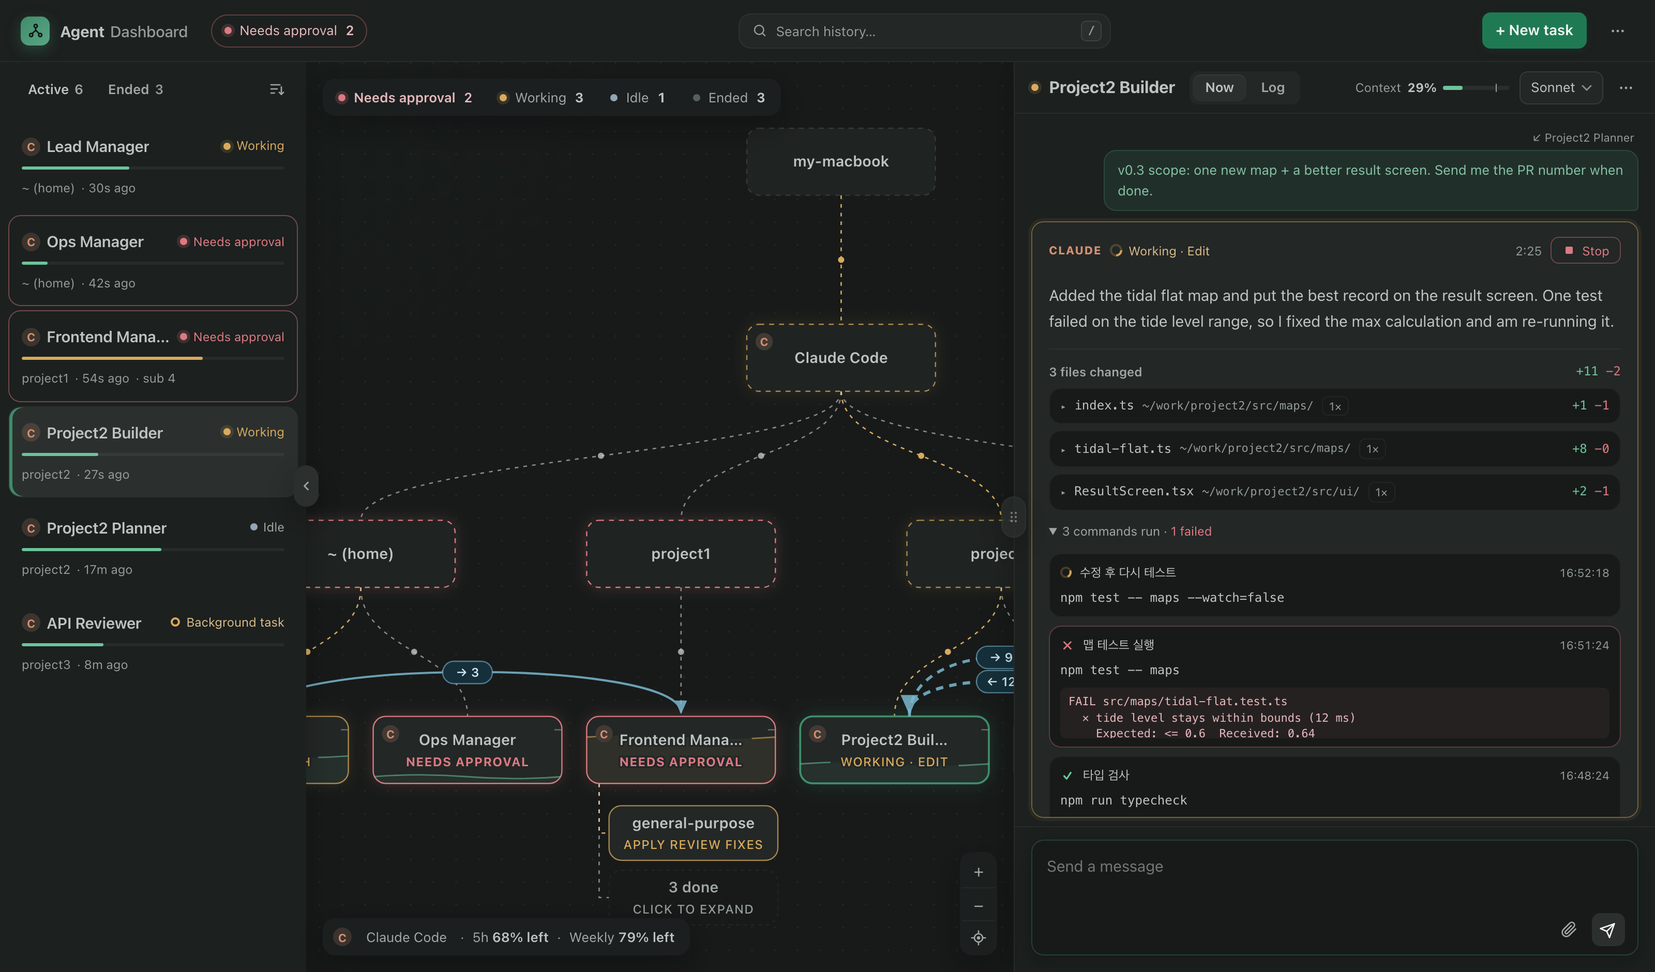
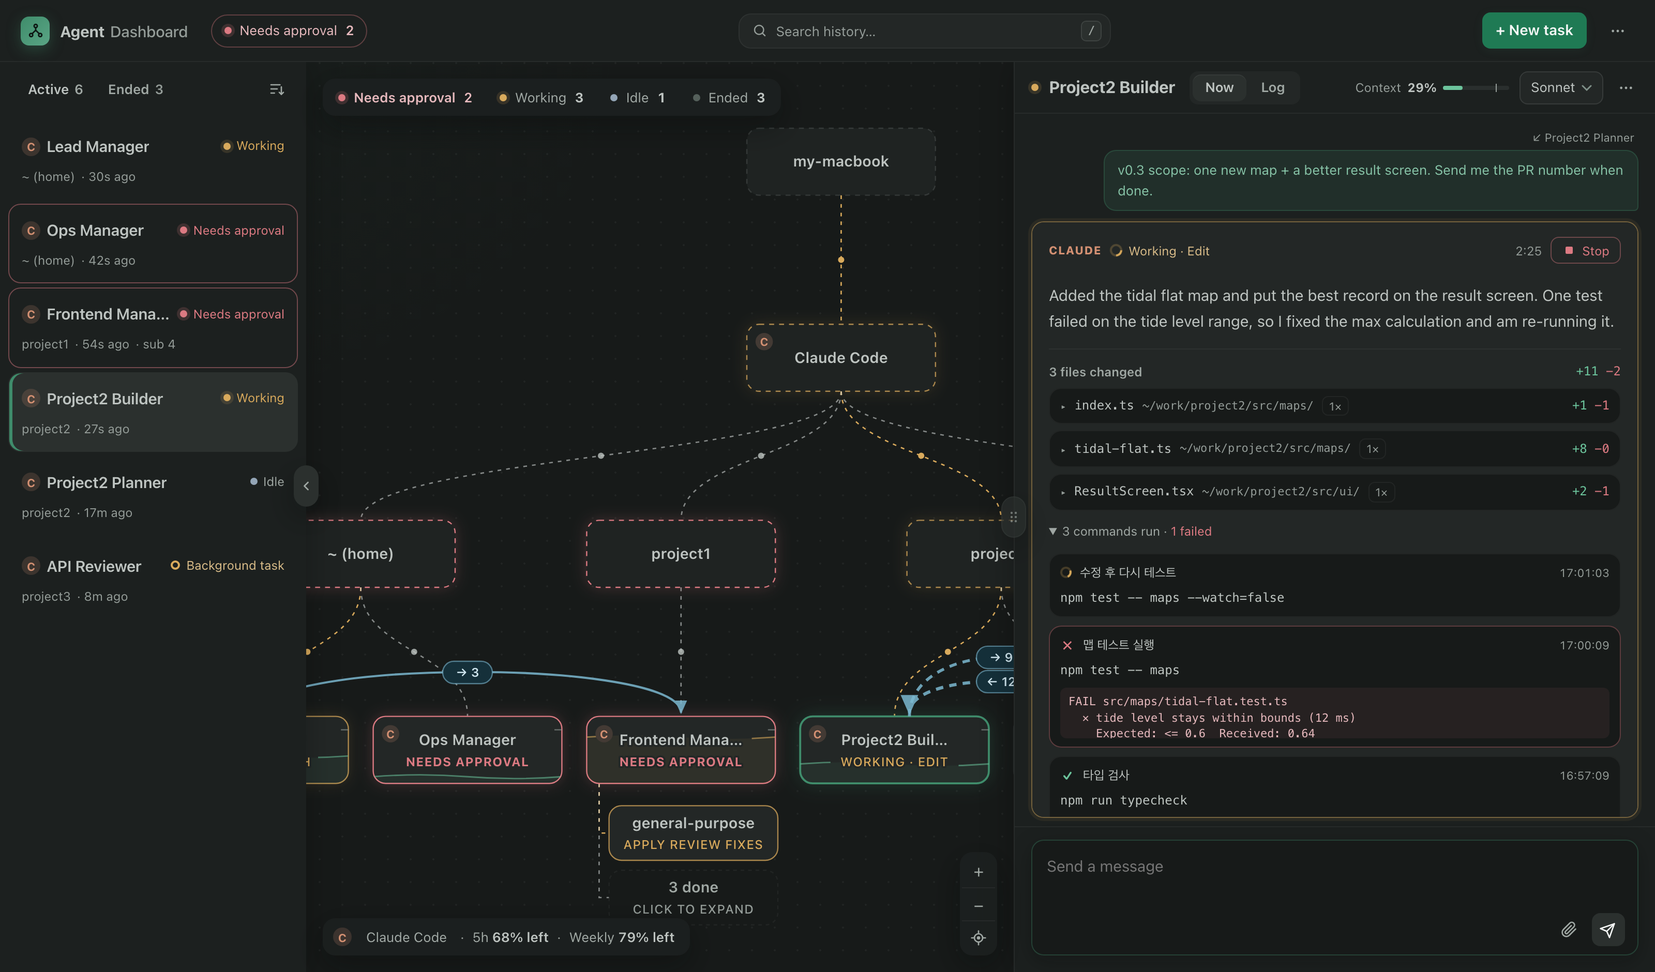
목록 카드의 대화 창 막대 없애기 · 낡은 css 머리 주석 셋 고치기
사용자 결정: 카드는 이름 · 상태 · 흐린 한 줄만, 대화 창은 조직도 물 채우기와 패널 머리 % 가 맡는다.
같이 쓰던 .ctx-bar 는 00-base 로, .ctx-chip 은 04-drawer 로 옮기고 안 쓰는 사전 두 줄을 지웠다. README 글 · 그림도 맞춤.
확인: npm test 458 통과(되돌리면 새 테스트 실패), 데모 1440 · 390 × 두 판 막대 0 · 가로 넘침 0 · 콘솔 0.

Changed region(s): [[0.0, 0.1543, 0.1875, 0.6787], [0.125, 0.617, 0.1562, 0.6479]]

diff --git a/public/js/04-list.js b/public/js/04-list.js
@@ -1,4 +1,5 @@
 // 왼쪽 세션 목록
+// 카드는 이름 · 상태 · 흐린 한 줄(폴더 · 시간)만 — 대화 창은 조직도 물 채우기(전체 비교)와 패널 머리 %(정확한 숫자)가 맡는다.
 // 꼬리표는 기본값이 아닐 때만: tmux 밖(보기만 되는) 세션에만 「보기만」. 에이전트 종류는 이름 앞 표식(02-kinds.js 의 kmark)
 const tags = (s) => (s.tmux ? '' : `<span class="badge badge-view" title="${t('Started outside tmux — chat · approve are off')}">${t('View only')}</span>`);
 // 탭: 활성 = 지금 떠 있는 세션(정렬 · 끌기) / 종료 = 최근 24시간에 끝난 세션(서버가 24시간만 보낸다) · 다시 열기.
@@ -29,7 +30,6 @@ function renderList() {
         <span class="ini"><span class="dot-s ${esc(s.status)} ${['working', 'waiting', 'background'].includes(s.status) ? 'pulse' : ''}"></span>${esc(initials(s.title))}</span>
         <div class="row"><div class="title">${kmark(s.tool)}${esc(s.title)}</div><span class="status ${esc(s.status)}"><span class="dot-s ${esc(s.status)} ${['working', 'waiting', 'background'].includes(s.status) ? 'pulse' : ''}"></span>${STATUS_KO[s.status]}</span></div>
         <button class="x" data-close="${esc(s.key)}" title="${s.status === 'ended' ? t('Hide from list') : t('End session')}" aria-label="${esc(s.title)} ${s.status === 'ended' ? t('Hide from list') : t('End session')}">✕</button>
-        ${s.context && s.status !== 'ended' ? `<div class="ctx" title="${t('Context window')} ${fmtTok(s.context.used)} / ${fmtTok(s.context.window)}${s.context.estimated ? ` (${t('window size estimated')})` : ''}"><div class="ctx-bar ${ctxLevel(s.context.percent)}" style="width:${s.context.percent}%"></div></div>` : ''}
         <div class="sub">${tags(s)}<span class="proj">${esc(s.project)}</span><span class="ago" data-key="${esc(s.key)}"></span>${s.subagents?.length ? `<span class="ago">· ${t('sub {n}', { n: s.subagents.length })}</span>` : ''}</div>
         ${s.reopen ? `<div class="re"><button type="button" class="reopen" data-reopen="${esc(s.id)}" aria-label="${esc(s.title)} ${t('Reopen')}">${t('Reopen')}</button></div>` : ''}
       </div>`;

diff --git a/public/css/02-list.css b/public/css/02-list.css
@@ -69,12 +69,6 @@ kbd { font: 11px var(--mono); padding: 0 5px; border: 1px solid var(--border-str
 .card .sub { display: flex; align-items: center; gap: 6px; margin-top: var(--sp-2); color: var(--faint); font-size: 12px; white-space: nowrap; overflow: hidden; }
 .card .sub .proj { min-width: 2em; overflow: hidden; text-overflow: ellipsis; }
 .card .sub .ago { flex: none; }
-.ctx { height: 3px; margin-top: 8px; border-radius: 3px; background: color-mix(in srgb, var(--ink) 6%, transparent); overflow: hidden; }
-.ctx-bar { height: 100%; border-radius: 3px; background: var(--ok); }
-.ctx-bar.mid { background: var(--working); }
-.ctx-bar.high { background: var(--waiting); }
-.ctx-chip { display: inline-flex; align-items: center; gap: 6px; }
-.ctx-chip .mini { width: 46px; height: 4px; border-radius: 3px; background: color-mix(in srgb, var(--ink) 8%, transparent); overflow: hidden; }
 .card .x { position: absolute; right: 8px; bottom: 8px; width: 24px; height: 24px; padding: 0; border-radius: 8px; font-size: 11px; line-height: 22px; color: var(--faint); background: var(--surface-3); border: 1px solid var(--border); opacity: 0; }
 .card:hover .x, .card:focus-within .x { opacity: 1; } /* 키보드로 카드 · ✕ 에 닿으면 보이게 */
 .card:focus-visible, .card .x:focus-visible { outline: 2px solid var(--accent); outline-offset: 2px; }

diff --git a/public/css/00-base.css b/public/css/00-base.css
@@ -149,6 +149,9 @@ input, textarea { font: inherit; color: var(--text); }
 .switch { display: inline-flex; align-items: center; gap: 8px; color: var(--dim); cursor: pointer; user-select: none; font-size: 12px; }
 .switch input { display: none; }
 button.switch { background: transparent; border-color: transparent; } /* 단추로 된 스위치(role=switch · aria-checked) — 사용 한도 보기 */
+.ctx-bar { height: 100%; border-radius: 3px; background: var(--ok); } /* 채움 막대(패널 머리 대화 창 · 세션 정보 · 한도 팝업) — 60 · 85% 에서 색만 */
+.ctx-bar.mid { background: var(--working); }
+.ctx-bar.high { background: var(--waiting); }
 .switch .track { flex: none; width: 30px; height: 18px; border-radius: 12px; background: var(--switch-off); position: relative; transition: background .15s; }
 .switch .track::after { content: ''; position: absolute; top: 2px; left: 2px; width: 14px; height: 14px; border-radius: 50%; background: var(--switch-knob); box-shadow: var(--switch-knob-shadow); transition: transform .15s; }
 .switch input:checked + .track, .switch[aria-checked="true"] .track { background: var(--switch-on); }

diff --git a/public/css/04-drawer.css b/public/css/04-drawer.css
@@ -168,3 +168,5 @@
 #busy-time { margin-left: auto; color: var(--faint); font-size: 12px; }
 .spinner { width: 14px; height: 14px; border-radius: 50%; border: 2px solid color-mix(in srgb, var(--working) 25%, transparent); border-top-color: var(--working); animation: spin .8s linear infinite; flex: none; } /* 진행 표시라 돈다 — 끝없는 애니메이션은 이 로딩 고리만(test/a11y.test.mjs 허용 목록) */
 @keyframes spin { to { transform: rotate(360deg); } }
+.ctx-chip { display: inline-flex; align-items: center; gap: 6px; } /* ⓘ 세션 정보의 대화 창 한 줄 */
+.ctx-chip .mini { width: 46px; height: 4px; border-radius: 3px; background: color-mix(in srgb, var(--ink) 8%, transparent); overflow: hidden; }

diff --git a/public/css/03-graph.css b/public/css/03-graph.css
@@ -1,4 +1,4 @@
-/* 가운데 조직도: 노드 · 선 · 흐르는 점선 · 세션 사이 화살표 — 프로젝트 박스를 누르면 뜨는 폴더 열기 메뉴도 여기 */
+/* 가운데 조직도: 바탕(점 격자 · 오로라 · 마우스 둘레 점) · 노드 · 선 · 물 채우기 · 세션 사이 화살표 · 메시지 점 — 프로젝트 박스를 누르면 뜨는 폴더 열기 메뉴도 여기 */
 /* ---------- 가운데 조직도 ---------- */
 /* 바탕 층: 멈춘 점 격자 + 가장자리 오로라(--aurora-*). 노드 · 선 · 글자 밑이라 글자 대비는 그대로(노드는 제 바탕을 칠한다) */
 main { position: relative; overflow: hidden; background:

diff --git a/public/css/01-header.css b/public/css/01-header.css
@@ -1,4 +1,4 @@
-/* 머리: 로고 · 통계 · 사용 한도 표시 · 단추 — 머리 단추가 여는 팝업(한도 추이 · 알림 설정)도 여기 */
+/* 머리: 로고 · 승인 필요 칩 · 검색 · 단추 — 머리 단추가 여는 팝업(알림 설정)과 범례 위로 열리는 사용 한도 팝업(#limits-pop)도 여기 */
 /* ---------- 헤더 ---------- */
 header { grid-column: 1 / -1; position: relative; z-index: var(--z-head); display: flex; align-items: center; gap: 14px; padding: 0 20px; border-bottom: 1px solid var(--border); background: var(--surface); }
 .brand { display: flex; align-items: center; gap: 10px; margin-right: 8px; }

diff --git a/public/css/11-center.css b/public/css/11-center.css
@@ -1,5 +1,5 @@
 /* 가운데 칸: 조직도 · 상태 칩 · 범례 · 확대 단추(07-center.js · 13-controls.js) — 좁은 창도 같은 배치 */
-/* 바탕은 장식 없이 한 가지 면(점 · 격자 · 번짐은 눈에 걸려서 뺐다). 머리 · 목록은 한 단계 밝은 면 */
+/* 조직도 바탕(점 격자 · 멈춘 오로라 · 마우스 둘레 점)은 03-graph.css. 머리 · 목록은 한 단계 밝은 면 */
 header, aside { background: var(--surface); }
 main { --dw: 0px; } /* 오른쪽 패널 폭(07-center.js 가 채움) — 확대 단추 · 폭 손잡이가 쓴다 */
 /* 보조 단추는 테두리만 */

diff --git a/public/js/00-dict-ui.js b/public/js/00-dict-ui.js
@@ -23,8 +23,6 @@ const KO_UI = {
   "End session": "세션 종료",
   "sub {n}": "서브 {n}",
   "Reopen": "다시 열기",
-  "Context window": "대화 창 사용량",
-  "window size estimated": "창 크기 추정",
   "No Claude Code session logs yet — run claude once in a terminal and it shows up here": "아직 Claude Code 세션 기록이 없어요 — 터미널에서 claude 를 한 번 실행하면 여기에 보여요",
   "No sessions running": "떠 있는 세션이 없어요",
   "Outside session folder": "세션 폴더 밖",

diff --git a/docs/ROADMAP.md b/docs/ROADMAP.md
@@ -83,7 +83,7 @@
 - [x] 8바퀴 대화 창 띠 · 손잡이 — 입력 칸 안내 줄을 placeholder 한 문장으로 `fc669a3` · 패널 폭 손잡이를 테두리선 위 둥근 탭(⋮⋮, 패널 밖 형제 · --dw) `a3b1061` · 가운데 바탕 그래프 · 큰 % · 좁은 화면 작은 그래프를 패널 머리 아래 56px 띠 하나로(60/85 색 · 마우스 · 초점 ← → 로 시각 · % · 토큰 · 마지막 자동 요약, Codex 숨김) · 휠은 조직도 옮기기(ctrl · 오므리기만 확대 — 트랙패드 스크롤로 0.59배까지 줄던 문제) `0ae0c5c`
 - [x] 8바퀴 휠 · 성능 — 휠 · 두 손가락 스크롤 = 마우스 기준 확대(delta 비례 · 하한 0.75) `cec0ebe` · 켜진 시각 한 번만(P1) `349e9d5` · 변경 본문은 고른 세션만 /api/changes(P2) `b2a4a33` · SSE 는 바뀐 세션만 patch(P3) `43ecd86` · 기록 탭 content-visibility(P8) `421d2a6` — 실제 서버 분당 985KB → 45KB
 - [ ] 8바퀴 간추리기 B1~B8 — B1 종료된 세션 기간 고르기 삭제(24시간 고정 · /api/window 없앰) `225e21f` · B2 이름순 정렬 삭제(저장된 name → 상태별) `4621100` · B3 음성 입력 삭제(단추 · 안내 창 · micNoticeOk) `08703d5` · B4 알림은 한 길로(macOS 면 macOS 알림만 · 그 밖은 브라우저 알림 자동, 설정의 브라우저 선택지 숨김) `aff8fd1` · B5 오늘 한 일 토큰은 합계 · 캐시 제외(다섯 갈래는 마우스 올림) `783ff53` · B6 서브에이전트는 진행 중 + 「완료 N개」(10분 · 5개 규칙 없앰) `ed8d290` · B7 사용 한도 켜기 설명 6줄 → 3줄 `3c80ada` · B8 패널 ⋯ 「넓게 보기」 삭제(손잡이로만)
-- [ ] 8바퀴 간추리기 2 — 대화 창 추이 띠(56px · /api/trend) 삭제 → 패널 머리 「대화 창 N%」 + 막대(80% 눈금), 마우스 올림 = % · 토큰 · 마지막 자동 요약(기록 응답의 compactAt) `152e542` · 요청 말풍선 하나(「나」 / 「↙ 세션」 이름표만 다름, 4줄 + 더 보기) · 대화 창을 머리 첫 줄로(좁으면 글자 → 막대 32px · 모델 여백 → 이름 → % 순, 막대는 끝까지) · 「+ 에이전트」 → 「+ 새 작업」 `e84df89` · 답변 코드 블록 복사 단추(위임 하나 · 원문만 · 1.5초 ✓) `8906538` · 한도 추이 삭제(그래프 · 24h/7d · 범례 줄 · /api/limits · 기록) → 팝업은 창마다 남은 양 · 초기화 시각 + 막대, 범례 「5시간 68% 남음 · 주간 79% 남음」 `a3ab99b` · 목록 「활성 N」 · 「종료 N」 탭(종료 = 최근 24시간 + 다시 열기, 고른 탭 agent-deck 의 listTab, j/k 는 보이는 탭 안, 접힌 띠는 활성만 · 종료 접기 줄 · showEnded 삭제) `abc734f` · 패널 머리 % 늘 보임(이름 2em · 탭 여백이 먼저) `74e4cbf` · 조직도 세션 노드 물 채우기(대화 창 %, 물 6~7% + 물낯 선 · 글자 둘레 바탕색, 80% 눈금, 바뀔 때만 0.5초, 글자 대비 ≥4.5) · 이름 가운데 `608ab0c` · 사용 한도 켜고 끄기를 스위치로(팝업 아래 · 꺼지면 범례에 꺼진 스위치, 처음 켤 때만 동의 줄 + [연결] · agent-deck 의 usageLinked, 끄기는 바로 usage-off, 설정 창 usage-dlg · 「설정…」 삭제) `5fc272e` · 입력 칸의 한 줄 슬래시 명령(/compact 등)은 붙여넣기 대신 send-keys -l 로(Claude Code 가 붙여 넣은 글은 명령으로 안 봄, /exit · /model 도 같은 길, 첨부가 붙으면 붙여넣기 그대로) · 환경 점검 꺼짐 문구 「Claude Code 범례의 「사용 한도 보기」」 `9640124` · 판 배치(조직도 = 머리 아래 전체 바탕, 목록 · 패널은 뜬 판(--aw · --shadow-panel · --slide 0.22초), 판 열고 닫기 · 폭 · 접기에 배율 · 위치 그대로, 가려진 고른 노드만 배율 그대로 보이는 칸으로, 맞춤은 두 판 사이 기준, 왼쪽 위 + − 묶음 + ⌖ 제자리로 · 키 + - 0, 「맞춤」 단추 삭제) `20ede35` · 실행기 테스트 흔들림(가짜 서버가 SIGTERM 처리 전에 pid 를 적어 기본 동작으로 죽음 → 처리 뒤 이름 바꾸기로 적기 · signal 을 until 로) `90e5de0` · 보이는 칸 480px 이하면 범례 「C 68% · 79%」(전체는 title) · 상태 칸 점 + 숫자, 그래도 겹치면 범례를 상태 칸 위로(main.tight · .kinds.stack) · 스위치 손잡이 흰색 + 옅은 그림자(--switch-knob · --switch-on/off, 대비 5.3 · 3.4) `7380228` · 조직도 바탕 층(눈 피로 우선: 가장자리 오로라 --aurora-1/2 5% · 가장 밝은 곳 L* +2.8 · 멈춤, 점 격자 그대로, 마우스 둘레 180px 점만 +0.15 — rAF 한 번에 .spot 의 --mx/--my, 멈춘 지 2초 · 0.5초 사라짐, 목록 · 패널 · 터치 · 동작 줄이기면 없음, 마우스 멈춘 30초 rAF 0) `e927f8e` · 조직도 위 세 무리를 지도 앱 배치로(왼쪽 위 상태 칩 가로 한 줄 · 승인 필요 0 흐림/1 이상 경고색, 왼쪽 아래 범례 + 한도 · 팝업은 그 위로, 오른쪽 아래 + − ⌖ 한 덩어리 · --dw 따라감, 같은 높이 · 모서리 · 반투명 면 --float-bg, 모자라면 범례 → 상태 칩 순으로 .short · 숨기지 않음, 860 이하도 같은 규칙 · #usage-line · main.tight · .stack 삭제, 1440 · 1180 · 860 · 390 × 판 열고 닫기 · 접기 × 두 테마 · 두 언어 겹침 0 · 넘침 0 · 콘솔 0) `f1e4e63` · 물낯 선이 노드 이름 · 상태 글자를 긋지 않게 글자 자리에서 끊기(evenodd 구멍, 폭은 글자 수 어림 · 한글 넓게, 물 면은 그대로 — halo 만으론 10px 글자 사이로 비쳤다) `927cda4` · 메시지 점(세션 사이 메시지 수가 늘면 · 새 화살표 포함 그 화살표를 따라 빛나는 점이 한 번 1초, 25점 키프레임 transform · opacity 만, 한 번에 셋까지, 처음 그릴 때 · 동작 줄이기면 없음, 숫자 꼬리표 아래로) `bb4f191` · 노드 등장 · 퇴장(새 세션 0.25초 0.92 → 1배 · blur 2px → 0 + 그 줄기 나타남, 빠진 노드는 맨 아래 층에서 0.3초 흐려짐 · 누를 수 없음, 처음 그릴 때 · 한 번에 넷 이상(탭 바꾸기) · 동작 줄이기면 없음, 다른 노드 자리 그대로) `17983e8` · README 그림 · GIF 다시(두 언어 · 새 배치 · 바탕 · 물 채우기 · 메시지 점, 전체는 패널 닫힘)
+- [ ] 8바퀴 간추리기 2 — 대화 창 추이 띠(56px · /api/trend) 삭제 → 패널 머리 「대화 창 N%」 + 막대(80% 눈금), 마우스 올림 = % · 토큰 · 마지막 자동 요약(기록 응답의 compactAt) `152e542` · 요청 말풍선 하나(「나」 / 「↙ 세션」 이름표만 다름, 4줄 + 더 보기) · 대화 창을 머리 첫 줄로(좁으면 글자 → 막대 32px · 모델 여백 → 이름 → % 순, 막대는 끝까지) · 「+ 에이전트」 → 「+ 새 작업」 `e84df89` · 답변 코드 블록 복사 단추(위임 하나 · 원문만 · 1.5초 ✓) `8906538` · 한도 추이 삭제(그래프 · 24h/7d · 범례 줄 · /api/limits · 기록) → 팝업은 창마다 남은 양 · 초기화 시각 + 막대, 범례 「5시간 68% 남음 · 주간 79% 남음」 `a3ab99b` · 목록 「활성 N」 · 「종료 N」 탭(종료 = 최근 24시간 + 다시 열기, 고른 탭 agent-deck 의 listTab, j/k 는 보이는 탭 안, 접힌 띠는 활성만 · 종료 접기 줄 · showEnded 삭제) `abc734f` · 패널 머리 % 늘 보임(이름 2em · 탭 여백이 먼저) `74e4cbf` · 조직도 세션 노드 물 채우기(대화 창 %, 물 6~7% + 물낯 선 · 글자 둘레 바탕색, 80% 눈금, 바뀔 때만 0.5초, 글자 대비 ≥4.5) · 이름 가운데 `608ab0c` · 사용 한도 켜고 끄기를 스위치로(팝업 아래 · 꺼지면 범례에 꺼진 스위치, 처음 켤 때만 동의 줄 + [연결] · agent-deck 의 usageLinked, 끄기는 바로 usage-off, 설정 창 usage-dlg · 「설정…」 삭제) `5fc272e` · 입력 칸의 한 줄 슬래시 명령(/compact 등)은 붙여넣기 대신 send-keys -l 로(Claude Code 가 붙여 넣은 글은 명령으로 안 봄, /exit · /model 도 같은 길, 첨부가 붙으면 붙여넣기 그대로) · 환경 점검 꺼짐 문구 「Claude Code 범례의 「사용 한도 보기」」 `9640124` · 판 배치(조직도 = 머리 아래 전체 바탕, 목록 · 패널은 뜬 판(--aw · --shadow-panel · --slide 0.22초), 판 열고 닫기 · 폭 · 접기에 배율 · 위치 그대로, 가려진 고른 노드만 배율 그대로 보이는 칸으로, 맞춤은 두 판 사이 기준, 왼쪽 위 + − 묶음 + ⌖ 제자리로 · 키 + - 0, 「맞춤」 단추 삭제) `20ede35` · 실행기 테스트 흔들림(가짜 서버가 SIGTERM 처리 전에 pid 를 적어 기본 동작으로 죽음 → 처리 뒤 이름 바꾸기로 적기 · signal 을 until 로) `90e5de0` · 보이는 칸 480px 이하면 범례 「C 68% · 79%」(전체는 title) · 상태 칸 점 + 숫자, 그래도 겹치면 범례를 상태 칸 위로(main.tight · .kinds.stack) · 스위치 손잡이 흰색 + 옅은 그림자(--switch-knob · --switch-on/off, 대비 5.3 · 3.4) `7380228` · 조직도 바탕 층(눈 피로 우선: 가장자리 오로라 --aurora-1/2 5% · 가장 밝은 곳 L* +2.8 · 멈춤, 점 격자 그대로, 마우스 둘레 180px 점만 +0.15 — rAF 한 번에 .spot 의 --mx/--my, 멈춘 지 2초 · 0.5초 사라짐, 목록 · 패널 · 터치 · 동작 줄이기면 없음, 마우스 멈춘 30초 rAF 0) `e927f8e` · 조직도 위 세 무리를 지도 앱 배치로(왼쪽 위 상태 칩 가로 한 줄 · 승인 필요 0 흐림/1 이상 경고색, 왼쪽 아래 범례 + 한도 · 팝업은 그 위로, 오른쪽 아래 + − ⌖ 한 덩어리 · --dw 따라감, 같은 높이 · 모서리 · 반투명 면 --float-bg, 모자라면 범례 → 상태 칩 순으로 .short · 숨기지 않음, 860 이하도 같은 규칙 · #usage-line · main.tight · .stack 삭제, 1440 · 1180 · 860 · 390 × 판 열고 닫기 · 접기 × 두 테마 · 두 언어 겹침 0 · 넘침 0 · 콘솔 0) `f1e4e63` · 물낯 선이 노드 이름 · 상태 글자를 긋지 않게 글자 자리에서 끊기(evenodd 구멍, 폭은 글자 수 어림 · 한글 넓게, 물 면은 그대로 — halo 만으론 10px 글자 사이로 비쳤다) `927cda4` · 메시지 점(세션 사이 메시지 수가 늘면 · 새 화살표 포함 그 화살표를 따라 빛나는 점이 한 번 1초, 25점 키프레임 transform · opacity 만, 한 번에 셋까지, 처음 그릴 때 · 동작 줄이기면 없음, 숫자 꼬리표 아래로) `bb4f191` · 노드 등장 · 퇴장(새 세션 0.25초 0.92 → 1배 · blur 2px → 0 + 그 줄기 나타남, 빠진 노드는 맨 아래 층에서 0.3초 흐려짐 · 누를 수 없음, 처음 그릴 때 · 한 번에 넷 이상(탭 바꾸기) · 동작 줄이기면 없음, 다른 노드 자리 그대로) `17983e8` · README 그림 · GIF 다시(두 언어 · 새 배치 · 바탕 · 물 채우기 · 메시지 점, 전체는 패널 닫힘) `b0c5d49` · 목록 카드의 대화 창 막대 삭제(사용자 결정 — 이름 · 상태 · 흐린 한 줄만, 대화 창은 조직도 물 채우기 · 패널 머리 %), .ctx-bar 는 00-base 공용으로 · .ctx-chip 은 04-drawer 로, 낡은 css 머리 주석 셋, README 그림 다시
 
 ## 3. 설치 · 보안
 - [x] 보기 요청에도 토큰, 첨부 14일 자동 삭제 (`031c865`)

diff --git a/README.md b/README.md
@@ -170,7 +170,7 @@ node bin/agent-dashboard.mjs restore   # 재시동 전 세션들을 tmux 로 다
 
 - 정렬: **직접 정렬**(카드를 끌어서 순서 고정) · 상태별(최근 활동순)
 - 정렬은 목록 맨 위 오른쪽 작은 아이콘
-- 카드: 이름 · 상태 · 대화 창 막대(초록 → 노랑 → 빨강) + 흐린 한 줄(폴더 · 시간). 꼬리표는 기본값이 아닐 때만(Codex · tmux 밖 「보기만」)
+- 카드: 이름 · 상태 + 흐린 한 줄(폴더 · 시간). 대화 창은 조직도 노드의 물 채우기(세션끼리 비교)와 패널 머리 「대화 창 N%」(정확한 숫자)로 봐요. 꼬리표는 기본값이 아닐 때만(Codex · tmux 밖 「보기만」)
 - 목록 오른쪽 가장자리 가운데 **‹ 탭으로 목록 접기** — 얇은 띠에 상태 점 + 이니셜만 남아요(› 로 다시 펼치기, 눌러서 바로 열기)
 - 목록 머리 탭 **활성 N** · **종료 N** — 종료 탭은 최근 24시간 안에 종료된 세션(「다시 열기」), 고른 탭은 다음에 열어도 그대로. 접힌 띠에는 활성만
 - 마우스를 올리면 ✕ — 세션 종료(확인 창) / 종료된 세션은 목록에서 숨기기

diff --git a/README.en.md b/README.en.md
@@ -170,7 +170,7 @@ A session already running in a terminal has no official way to receive input fro
 
 - Sort: **manual** (drag cards to fix the order) · by status (recent first)
 - Sorting is the small icon at the top right of the list
-- Card: name · status · context bar (green → yellow → red) + one faint line (folder · time). Tags only when not the default (Codex · "View only" outside tmux)
+- Card: name · status + one faint line (folder · time). Context use is shown by the water fill in the org chart nodes (to compare sessions) and "Context N%" in the panel header (exact number). Tags only when not the default (Codex · "View only" outside tmux)
 - **Collapse the list** with the ‹ tab at the middle of its right edge — a thin rail keeps status dots + initials (› to expand, click to open)
 - List tabs **Active N** · **Ended N** — the Ended tab shows sessions that ended in the last 24 hours (with "Reopen"); your tab is remembered. The folded strip shows active sessions only
 - Hover for ✕ — close the session (with confirmation) / hide an ended session
